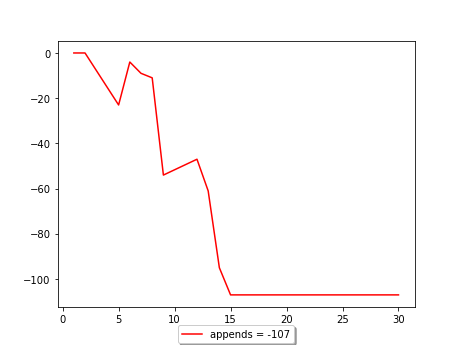
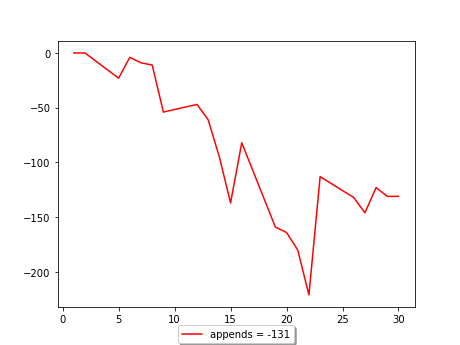
29

diff --git a/c16wiki/b2650schedule.html b/c16wiki/b2650schedule.html
@@ -210,17 +210,17 @@
 12 августа 2024 г., 8:31 17:08<br />
 13 августа 2024 г., 8:35 16:51<br />
 14 августа 2024 г., 8:56 16:52<br />
-15 августа 2024 г., 8:42 17:00<br />
-16 августа 2024 г., 8:30 17:00<br />
-19 августа 2024 г., 8:30 17:00<br />
-20 августа 2024 г., 8:30 17:00<br />
-21 августа 2024 г., 8:30 17:00<br />
-22 августа 2024 г., 8:30 17:00<br />
-23 августа 2024 г., 8:30 17:00<br />
-26 августа 2024 г., 8:30 17:00<br />
-27 августа 2024 г., 8:30 17:00<br />
-28 августа 2024 г., 8:30 17:00<br />
-29 августа 2024 г., 8:30 17:00<br />
+15 августа 2024 г., 8:42 16:30<br />
+16 августа 2024 г., 10:00 19:25<br />
+19 августа 2024 г., 9:48 17:01<br />
+20 августа 2024 г., 8:26 16:51<br />
+21 августа 2024 г., 8:43 16:57<br />
+22 августа 2024 г., 9:04 16:53<br />
+23 августа 2024 г., 9:04 19:22<br />
+26 августа 2024 г., 8:34 16:45<br />
+27 августа 2024 г., 8:39 16:55<br />
+28 августа 2024 г., 8:06 16:59<br />
+29 августа 2024 г., 8:38 17:00<br />
 30 августа 2024 г., 8:30 17:00  </p>
 <h2 id="september">September</h2>
 <p><img alt="&quot;ttt&quot;" src="i265009time.png" />  </p>

diff --git a/c16wiki/b2650schedule.md b/c16wiki/b2650schedule.md
@@ -204,17 +204,17 @@
 12 августа 2024 г., 8:31 17:08
 13 августа 2024 г., 8:35 16:51
 14 августа 2024 г., 8:56 16:52
-15 августа 2024 г., 8:42 17:00
-16 августа 2024 г., 8:30 17:00
-19 августа 2024 г., 8:30 17:00
-20 августа 2024 г., 8:30 17:00
-21 августа 2024 г., 8:30 17:00
-22 августа 2024 г., 8:30 17:00
-23 августа 2024 г., 8:30 17:00
-26 августа 2024 г., 8:30 17:00
-27 августа 2024 г., 8:30 17:00
-28 августа 2024 г., 8:30 17:00
-29 августа 2024 г., 8:30 17:00
+15 августа 2024 г., 8:42 16:30
+16 августа 2024 г., 10:00 19:25
+19 августа 2024 г., 9:48 17:01
+20 августа 2024 г., 8:26 16:51
+21 августа 2024 г., 8:43 16:57
+22 августа 2024 г., 9:04 16:53
+23 августа 2024 г., 9:04 19:22
+26 августа 2024 г., 8:34 16:45
+27 августа 2024 г., 8:39 16:55
+28 августа 2024 г., 8:06 16:59
+29 августа 2024 г., 8:38 17:00
 30 августа 2024 г., 8:30 17:00
 
 
